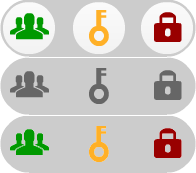
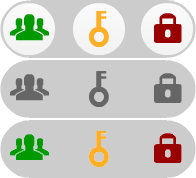
better 200 version

diff --git a/orcid-web/src/main/webapp/static/css/orcid.css b/orcid-web/src/main/webapp/static/css/orcid.css
@@ -5090,7 +5090,7 @@ strong,
 @media only screen and (-webkit-min-device-pixel-ratio: 2), 
 only screen and (min-device-pixel-ratio: 2) {
 	
-    Retina-specific stuff here
+   /* Retina-specific stuff here */
    .privacyToggle li {
       background: url('../img/privacy-toggle_200_v2.png') no-repeat;
       background-size: 98px 89px;
@@ -5153,7 +5153,7 @@ only screen and (min-device-pixel-ratio: 2) {
 	z-index: 1000;
 	display: none;	
 }
-/*
+
 @media only screen and (-webkit-min-device-pixel-ratio: 2), 
 only screen and (min-device-pixel-ratio: 2) {
 	
@@ -5162,7 +5162,7 @@ only screen and (min-device-pixel-ratio: 2) {
       background-size: 206px 70px;
    }
 }
-*/
+
 
 
 .privacyLegendHide:hover .privacyLegend {
